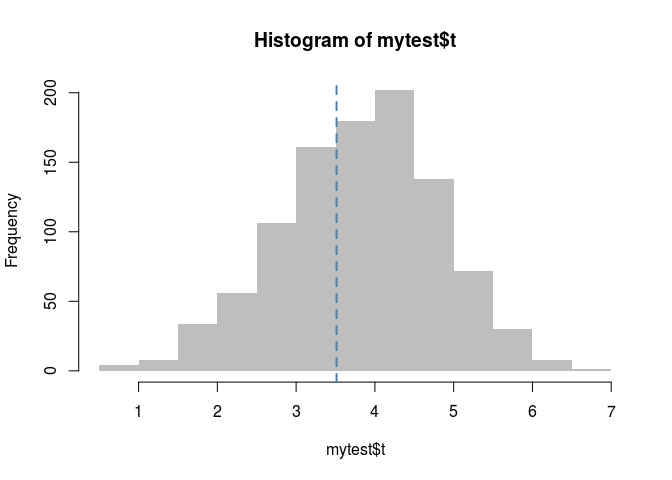
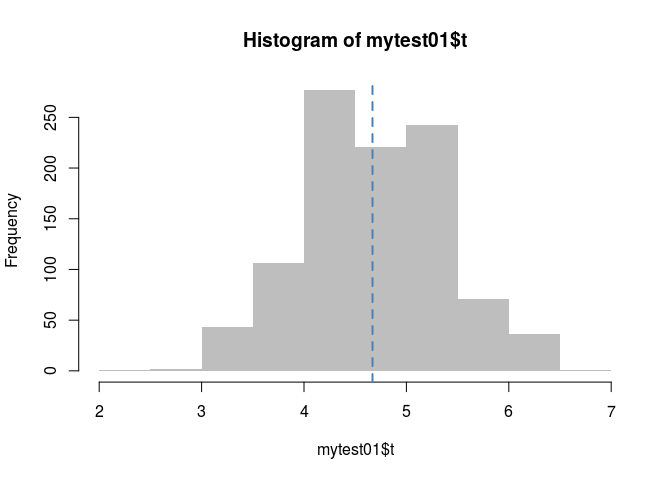
Adding a better example that the things that can be done

diff --git a/README.md b/README.md
@@ -16,6 +16,16 @@ You can install the released version of gnet from
 install.packages("gnet")
 ```
 
+## Support
+
+This material is based upon work support by, or in part by, the U.S.
+Army Research Laboratory and the U.S. Army Research Office under grant
+number W911NF-15-1-0577
+
+Computation for the work described in this paper was supported by the
+University of Southern California’s Center for High-Performance
+Computing (hpcc.usc.edu).
+
 ## Example
 
 This is a basic example which shows you how to solve a common problem:
@@ -24,29 +34,111 @@ This is a basic example which shows you how to solve a common problem:
 library(ergmito)
 library(gnet)
 
+
 # A random sample of networks
 set.seed(12)
-nets <- list(ergmito::rbernoulli(3), ergmito::rbernoulli(4))
+nets <- rbernoulli(c(3,3,4,4,4))
 
 # Are the edgecounts random??
-fun <- function(g, y) mean(sapply(g, function(z) summary(z~edges)) - y)
+fun <- function(g, y) mean(count_stats(g, "edges") - y, na.rm = TRUE)
 
-mytest <- struct_test(nets ~ edges + balance, y = runif(2), R=1000, stat=fun)
+mytest01 <- struct_test(nets ~ edges + balance, y = runif(5), R=1000, stat=fun)
 ```
 
 ``` r
-mytest
+mytest01
 #> Test of structural association between a network and a graph level outcome
-#> # of obs: 2
-#> # of replicates: 1000
-#> Alternative: %s
-#>  two.sidedS[1] s(obs): 3.5134 s(sim): 3.5729 p-val: 0.9020
+#> # of obs: 5
+#> # of replicates: 1000 (1000 used)
+#> Alternative: two.sided
+#> S[1] s(obs): 4.6689 s(sim): 4.6931 p-val: 0.9080
 ```
 
 ``` r
 # Looking at the distribution
-hist(mytest$t, breaks=10, col="gray", border="transparent")
-abline(v = mytest$t0, col="steelblue", lwd=2, lty="dashed")
+hist(mytest01$t, breaks=10, col="gray", border="transparent")
+abline(v = mytest01$t0, col="steelblue", lwd=2, lty="dashed")
 ```
 
 <img src="man/figures/README-hist-1.png" width="100%" />
+
+Using the fivenets dataset included in `ergmito`. In this example, we
+show how the model can be use to discover an association between
+
+``` r
+
+# Loading the fivents dataset. We actually know that data generating process,
+# so we use these paramaters for the model
+data(fivenets, package="ergmito")
+
+# We will generate a group level variable that is related to the proportion of
+# females in the group
+set.seed(52)
+y <- count_stats(fivenets ~ nodematch("female"))
+y <- y + rnorm(nnets(fivenets), sd = 2)
+
+# Performing the struct test
+f02 <- function(g, y) cor(count_stats(g ~ nodematch("female")), y, use = "complete.obs")[1] 
+mytest02 <- struct_test(
+  fivenets ~ edges + nodematch("female"), y = y, R=2000,
+  stat = f02
+  )
+#> Warning in cor(count_stats(g ~ nodematch("female")), y, use =
+#> "complete.obs"): the standard deviation is zero
+
+#> Warning in cor(count_stats(g ~ nodematch("female")), y, use =
+#> "complete.obs"): the standard deviation is zero
+mytest02
+#> Test of structural association between a network and a graph level outcome
+#> # of obs: 5
+#> # of replicates: 2000 (1998 used)
+#> Alternative: two.sided
+#> S[1] s(obs): 0.8624 s(sim): 0.2631 p-val: 0.0210
+
+hist(mytest02$t, breaks=10, col="gray", border="transparent")
+abline(v = mytest02$t0, col="steelblue", lwd=2, lty="dashed")
+```
+
+<img src="man/figures/README-fivenets-1.png" width="100%" />
+
+What would have we got if we use correlation or a linear regression
+only?
+
+``` r
+# Pearson correlation
+x <- count_stats(fivenets ~ nodematch("female"))
+
+cor.test(x, y)
+#> 
+#>  Pearson's product-moment correlation
+#> 
+#> data:  x and y
+#> t = 2.9513, df = 3, p-value = 0.05996
+#> alternative hypothesis: true correlation is not equal to 0
+#> 95 percent confidence interval:
+#>  -0.08290487  0.99080307
+#> sample estimates:
+#>       cor 
+#> 0.8624443
+summary(lm(y ~ x))
+#> 
+#> Call:
+#> lm(formula = y ~ x)
+#> 
+#> Residuals:
+#>       1       2       3       4       5 
+#> -0.2304 -2.1519  3.3243  0.5473 -1.4894 
+#> 
+#> Coefficients:
+#>             Estimate Std. Error t value Pr(>|t|)  
+#> (Intercept)  -3.8115     2.4666  -1.545     0.22  
+#> x             2.0347     0.6894   2.951     0.06 .
+#> ---
+#> Signif. codes:  0 '***' 0.001 '**' 0.01 '*' 0.05 '.' 0.1 ' ' 1
+#> 
+#> Residual standard error: 2.467 on 3 degrees of freedom
+#> Multiple R-squared:  0.7438, Adjusted R-squared:  0.6584 
+#> F-statistic:  8.71 on 1 and 3 DF,  p-value: 0.05996
+```
+
+In this case, the test has higher power than the other 2.
